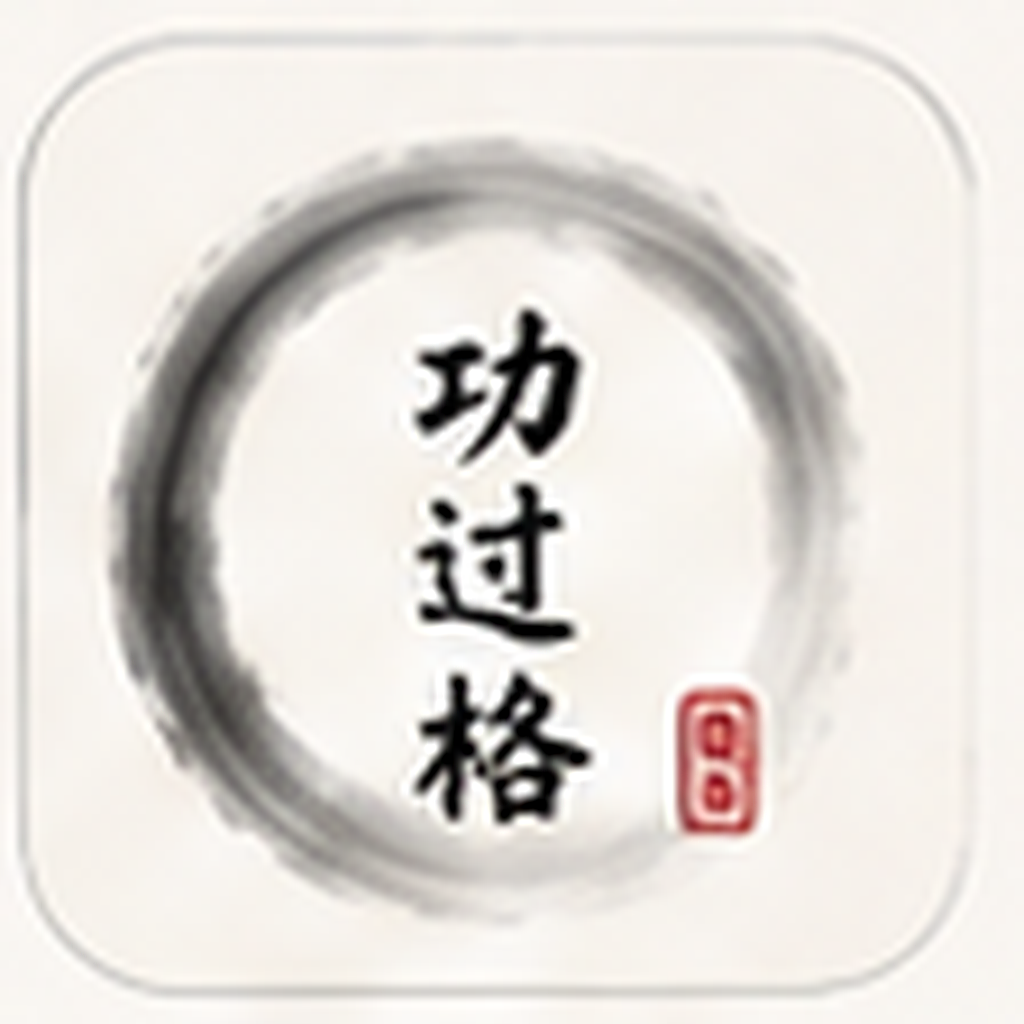
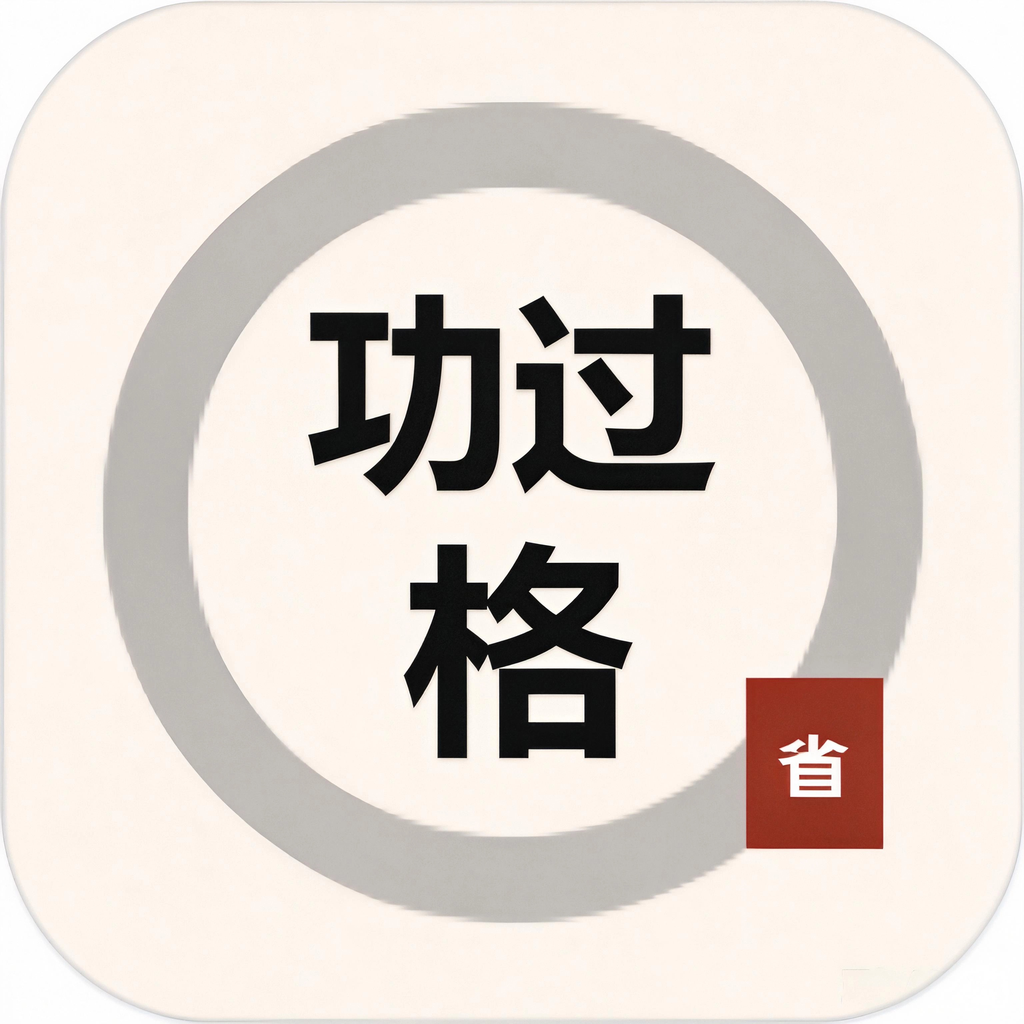
替换为设计师提供的高清图标与启动页
图标：3072x3072 源文件 -> 1024 主图 + 17 个尺寸（20~1024，含 iOS 全套）
      替代之前从设计板切图放大的 112px 版本（那张还是模糊的）
启动页：1056x2336 源文件 -> static/splash.png
      替代之前从设计板切图放大的版本
源文件归档到 docs/design/，以后要重新导出尺寸不用再找人要
README 的图标与启动页改用高清版（且是设计师最终稿，印章样式与旧版不同）

几何已验证：图标为满幅圆角方块（圆角半径约 15%），
套系统圆形遮罩后遮罩完全落在方块内，不会露出白角。

diff --git a/README.md b/README.md
@@ -1,7 +1,7 @@
 # 功过格 · Gongguoge
 
 <p align="center">
-  <img src="docs/screenshots/09-应用图标.png" width="110" alt="功过格" />
+  <img src="frontend/static/app-icon.png" width="110" alt="功过格" />
 </p>
 
 <p align="center">
@@ -32,7 +32,7 @@
 | ![今日](docs/screenshots/01-首页-今日.png) | ![快速记录](docs/screenshots/02-快速记录.png) | ![统计趋势](docs/screenshots/05-统计趋势.png) | ![日历回望](docs/screenshots/06-日历回望.png) | ![设置](docs/screenshots/07-设置.png) |
 
 <p align="center">
-  <img src="docs/screenshots/08-启动页.png" height="330" alt="启动页" />
+  <img src="frontend/static/splash.png" height="330" alt="启动页" />
   &nbsp;&nbsp;&nbsp;
   <img src="docs/screenshots/04-删除撤销.png" height="330" alt="删除撤销" />
 </p>
